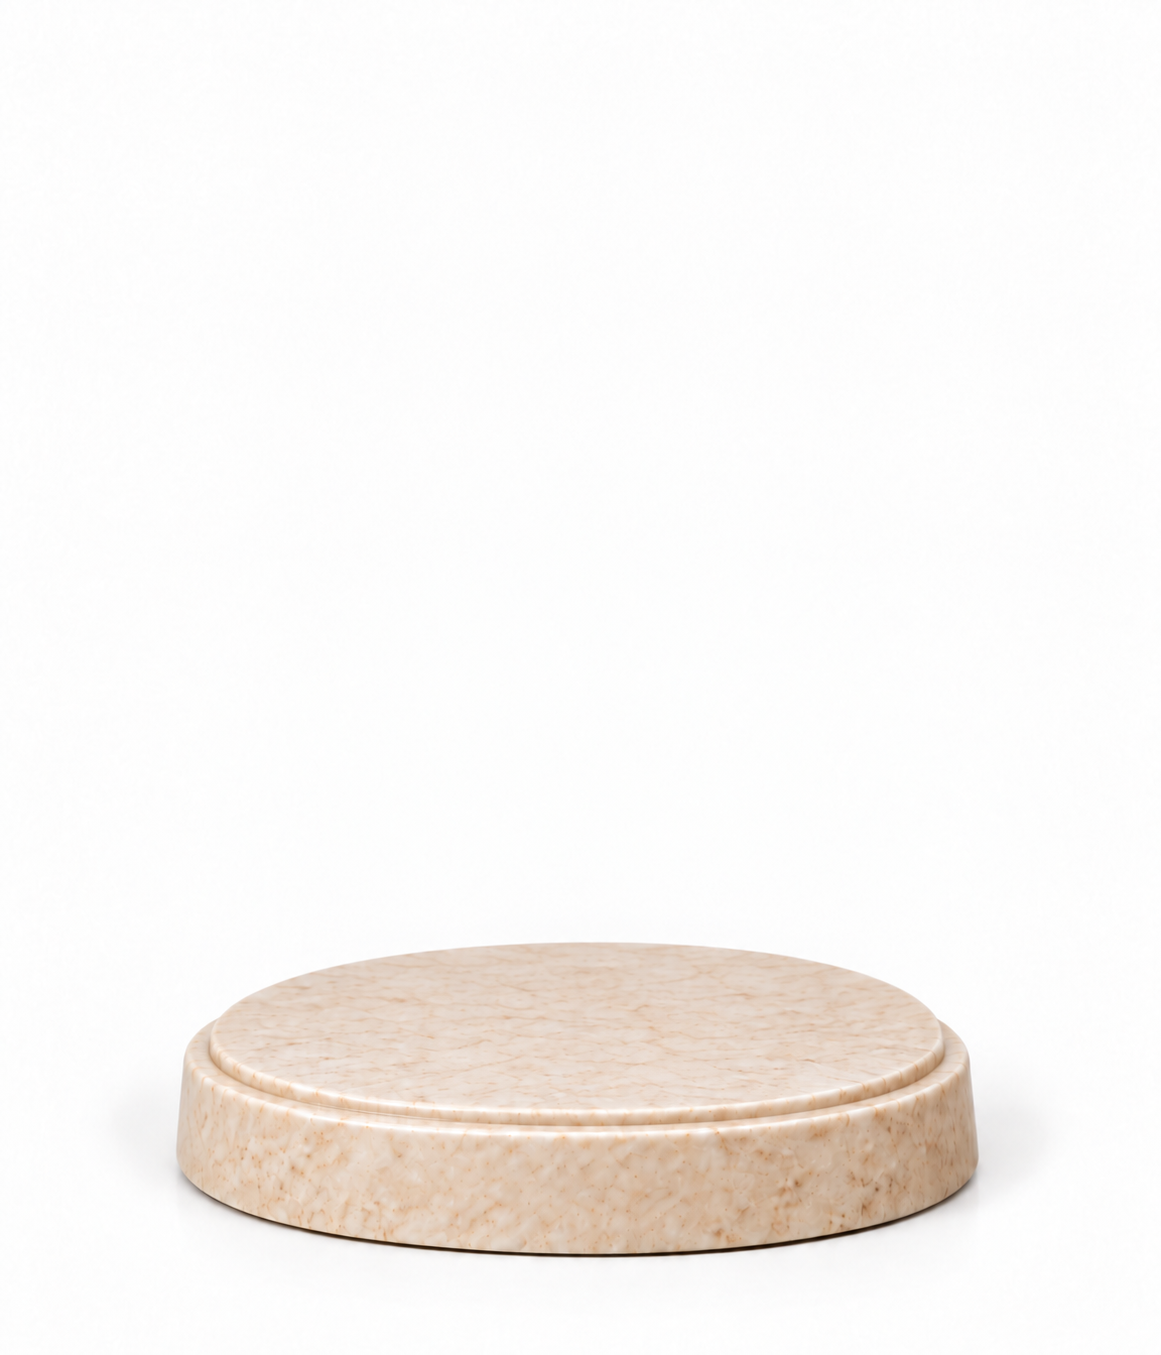
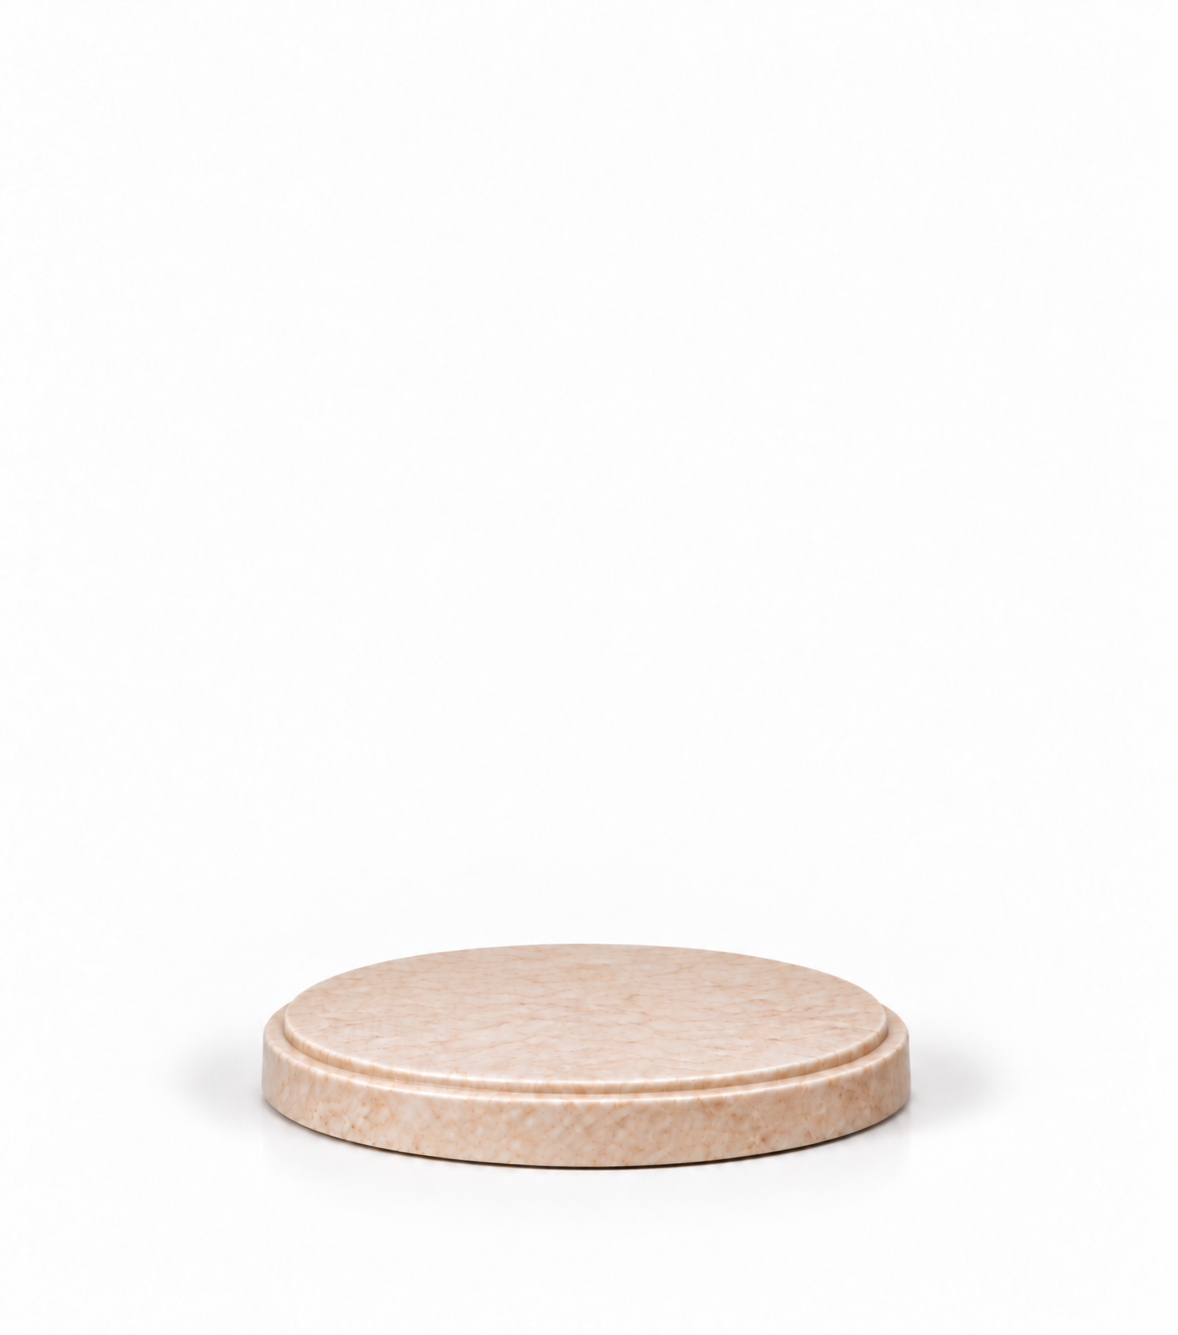
Base: nueva referencia (pedestal plano/redondo) y centrado real del perro
- Reemplaza public/bases/marble-ref.png por la base plana y mas pequena que
  pidio el usuario.
- Prompt: perro y base = UNA sola figura fusionada; centrado en el CENTRO real
  del circulo (mismo marmol delante/detras y a los lados); si tiende a irse
  adelante, mover TODO el perro hacia atras.

Changed region(s): [[0.124, 0.6757, 0.8682, 0.9521], [0.5271, 0.7371, 0.5581, 0.7678]]

diff --git a/src/config/products.ts b/src/config/products.ts
@@ -150,7 +150,8 @@ export const bases: Base[] = [
     // pedestal ovalado de mármol/travertino beige, borde escalonado. El
     // nombre va GRABADO en la piedra (no en placa de metal).
     prompt:
-      "This is a photorealistic product photo of a REAL painted resin collectible figurine placed on a marble pedestal like the one in the LAST reference image — a smooth oval polished beige marble/travertine pedestal with a raised flat oval top and a wider stepped rounded rim below it, cream-and-tan veining, satin finish. Use the reference ONLY for the base's shape, material and color; the dog is always OUR pet from the FIRST image (keep its exact face, head shape, muzzle, ears, fur colors and markings) — never copy any other animal. COMPOSITION: the pet sits upright, at the exact geometric CENTER of the oval top, its body pushed slightly toward the BACK so its front paws rest fully on the marble well inside the front edge, with visible marble margin in front of the paws and equal margin left and right. The pedestal top is clearly wider than the pet's footprint. Pet and base are ONE cohesive real figurine photographed in studio, not a digital paste-up, not floating, not clipping. The front face of the lower marble rim is smooth and BLANK — ready for a name to be engraved later (no metal plaque)",
+      "This is a photorealistic product photo of ONE single real painted resin collectible figurine: the pet and the marble base are a SINGLE fused sculpture, manufactured as one piece, photographed together in a studio — never two separate objects, never floating, never pasted on. Use the LAST reference image ONLY for the base's shape, material and color: a low, flat, round polished beige marble pedestal with a stepped rounded rim, cream-and-tan veining, satin finish. The dog is always OUR pet from the FIRST image (keep its exact face, head shape, muzzle, ears, fur colors and markings) — never copy any other animal. " +
+      "CENTERING IS CRITICAL — the pet must sit in the DEAD CENTER of the round top, centered both left-to-right AND front-to-back: there must be the SAME amount of visible marble BEHIND the dog's rear as there is in FRONT of its front paws, and the same on both sides. The dog is NOT shifted toward the front; if it tends to lean forward, move the WHOLE dog backward until its front paws rest around the middle of the top surface, with a clear ring of empty marble all the way around the dog. All paws rest flat on the marble, well inside the rim. The round top is clearly wider than the dog's footprint so a full margin of stone shows around it. The front face of the lower marble rim is smooth and BLANK — ready for a name to be engraved later (no metal plaque)",
     refImage: "/bases/marble-ref.png",
   },
 ];

diff --git a/src/app/api/generate/route.ts b/src/app/api/generate/route.ts
@@ -67,7 +67,7 @@ export async function POST(req: NextRequest) {
     const basePhrase = base.prompt || NO_BASE;
     const baseRefUrls = base.refImage ? [new URL(base.refImage, req.nextUrl.origin).toString()] : [];
     const baseRefNote = base.refImage
-      ? " The LAST reference image is ONLY the empty marble base — copy its material, color and shape, but the dog is always OUR pet from the FIRST image; never copy any other animal. Center the pet on the oval top, pushed slightly back so the front paws rest fully on the marble inside the front edge. Leave the front of the marble rim smooth and blank."
+      ? " The LAST reference image is ONLY the empty round marble base — copy its material, color and shape, but the dog is always OUR pet from the FIRST image; never copy any other animal. The pet and base are ONE fused figurine. Center the pet in the DEAD CENTER of the round top — same marble margin behind the rear as in front of the paws, same on both sides; move the whole dog back if it leans forward. Leave the front of the marble rim smooth and blank."
       : "";
     let src: string | undefined;
     let prompt: string;
